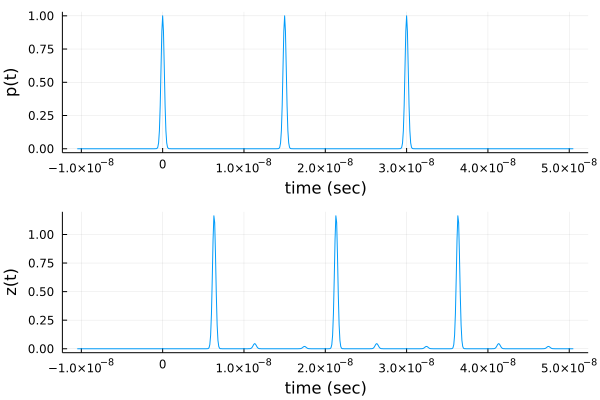
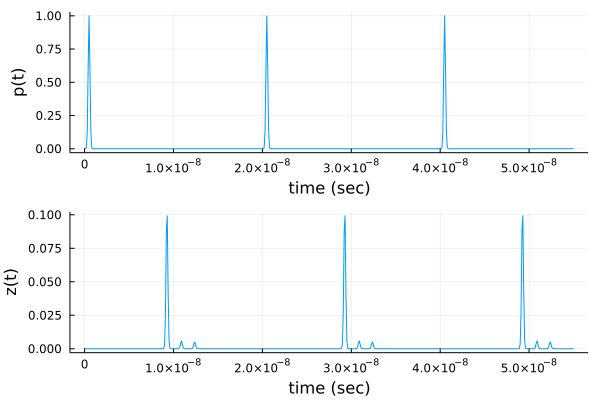
edit STAT D example

diff --git a/docs/src/stationaryDirectionSource/stationaryDirSource.md b/docs/src/stationaryDirectionSource/stationaryDirSource.md
@@ -315,12 +315,12 @@ inverse2Dplot([q],r,[z],f)
 ### Scenario Assumptions
 
 * single stationary directional source with time-varying beam center
-* single stationary directional receiver at the same location as source
+* single stationary directional receiver 
 * multiple stationary ideal point reflectors
 * the source emits multiple impulses
 
 
-For scenario D, we provided the position of the directional source $𝐩ₛ$, the directional receiver's position $𝐩ᵣ$ where $𝐩ₛ=𝐩ᵣ$, with time-varying beam center $𝐛(t)$, multiple stationary reflectors say N and the transmitted signal, $p(t)$.
+For scenario D, we provided the position of the directional source $𝐩ₛ$, the directional receiver's position $𝐩ᵣ$, with time-varying beam center $𝐛(t)$, multiple stationary reflectors say N and the transmitted signal, $p(t)$.
 
 Now the expression for the reflector function is given by
 
@@ -348,21 +348,20 @@ $z(t) = \sum\limits_{n=1}^{N} \alpha_n \mathrm{D}\mathrm{r}\big(\bm{\xi}_n;\,{\m
 ```julia
 using LTVsystems
 using Plots
-𝐩ₛ = [0.3, 0.3]
-𝐩ᵣ = [0.9, 0.9]
-T  = 15.0e-09
-p(t) = δn(t,2.0e-10) + δn(t-T,2.0e-10) + δn(t-2T,2.0e-10)
-α₁ = 0.7; 𝛏₁ = [1.2,0.0]
-α₂ = 0.6; 𝛏₂ = [1.8,1.8]
-α₃ = 0.5; 𝛏₃ = [2.7,-0.9]
-
+𝐩ₛ = [0.1, 0.0]
+𝐩ᵣ = [0.4, 0.2]
+T  = 20.0e-9
+p(t) = δn(t-0.5e-9,1.0e-10) + δn(t-0.5e-9-T,1.0e-10) + δn(t-0.5e-9-2T,1.0e-10)
+α₁ = 0.7; 𝛏₁ = [1.8,0.0]
+α₂ = 0.6; 𝛏₂ = [1.1,1.1]
+α₃ = 0.5; 𝛏₃ = [2.0,-0.2] 
 ω = T/3
 𝐛(t) = [cos(2π*ω*t), sin(2π*ω*t)]
 G(θ) = 𝒩ᵤ(θ, μ=0.0, σ=π/4)
 q = STATsourceD(𝐩ₛ,p,𝐛,G)
 r = pointReflector([𝛏₁,𝛏₂,𝛏₃],[α₁,α₂,α₃],[q])
 z = STATreceiverD(r,𝐩ᵣ,𝐛,G)
-t = collect(-10.5e-9:1.0e-10:50.5e-9)
+t = 0.0:1.0e-10:55.0e-9
 p1 = plot(t,p, xlab="time (sec)", ylab="p(t)", legend=:false)
 p2 = plot( t, z(t), xlab="time (sec)", ylab="z(t)", legend=:false)
 plot(p1,p2,layout=(2,1))
@@ -384,3 +383,28 @@ ${f}(\bm{\xi}) =\dfrac{z\left(td+\frac{\|\mathbf{p}_\mathrm{r}-
 {\mathrm{c}} \right)}\big)}{\mathrm{A}\big(\frac{\|\bm{\xi}-\mathbf{p}_\mathrm{s}\|}{\mathrm{c}}\big)    
 \mathrm{A}\big(\frac{\|\mathbf{p}_\mathrm{r}-\bm{\xi}\|}{\mathrm{c}}\big)}
 .$
+
+```julia
+using LTVsystems
+using Plots
+𝐩ₛ = [0.1, 0.0]
+𝐩ᵣ = [0.4, 0.2]
+T  = 20.0e-9
+p(t) = δn(t-0.5e-9,1.0e-10) + δn(t-0.5e-9-T,1.0e-10) + δn(t-0.5e-9-2T,1.0e-10)
+α₁ = 0.7; 𝛏₁ = [1.8,0.0]
+α₂ = 0.6; 𝛏₂ = [1.1,1.1]
+α₃ = 0.5; 𝛏₃ = [2.0,-0.2] 
+ω = T/3
+𝐛(t) = [cos(2π*ω*t), sin(2π*ω*t)]
+G(θ) = 𝒩ᵤ(θ, μ=0.0, σ=π/4)
+q = STATsourceD(𝐩ₛ,p,𝐛,G)
+r = pointReflector([𝛏₁,𝛏₂,𝛏₃],[α₁,α₂,α₃],[q])
+z = STATreceiverD(r,𝐩ᵣ,𝐛,G)
+Dᵣ(ξ::Vector{Float64}) = G(angleBetween(𝐛((norm(ξ-𝐩ₛ) .+ norm(𝐩ᵣ-ξ))./c), ξ.-𝐩ᵣ))
+Dₛ(ξ::Vector{Float64}) = G(angleBetween(𝐛((norm(ξ-𝐩ₛ).+ norm(𝐩ᵣ-ξ))./c), ξ.-𝐩ₛ))
+zₜ = PulseTrainReceivers(z,T)
+f(ξ::Vector{Float64}) = (zₜ((norm(ξ-𝐩ₛ).+ norm(𝐩ᵣ-ξ))./c).*Dᵣ(ξ).*Dₛ(ξ))/
+                        (A(norm(ξ-𝐩ₛ)/c).*A(norm(𝐩ᵣ-ξ)/c))
+inverse2Dplot([q],r,[z],f)
+```
+![](https://raw.githubusercontent.com/NMSU-ISA/LTVsystems/main/docs/src/assets/scenarioD_STATDsimulationnew.png)
